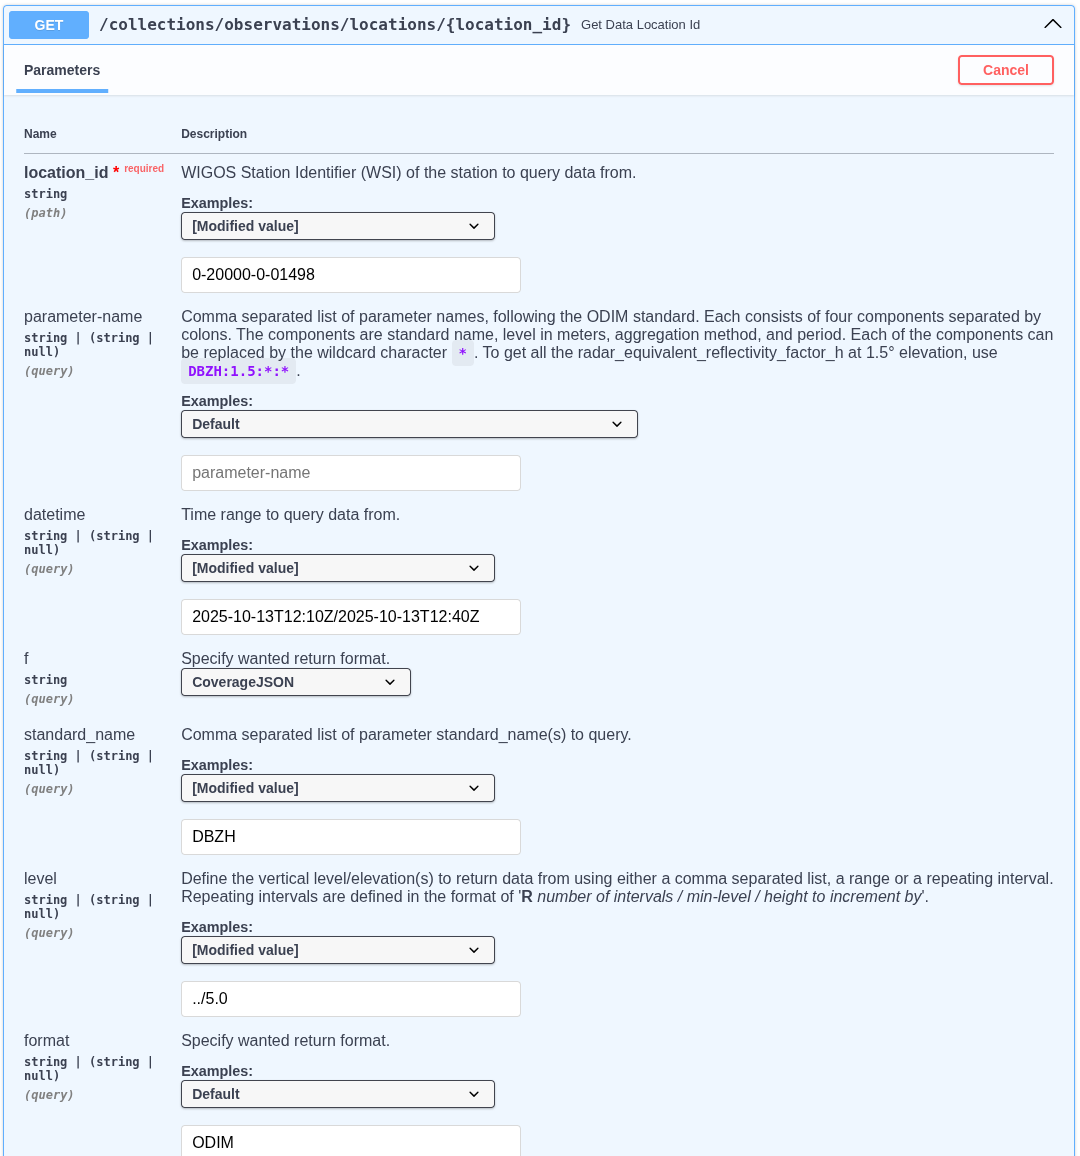
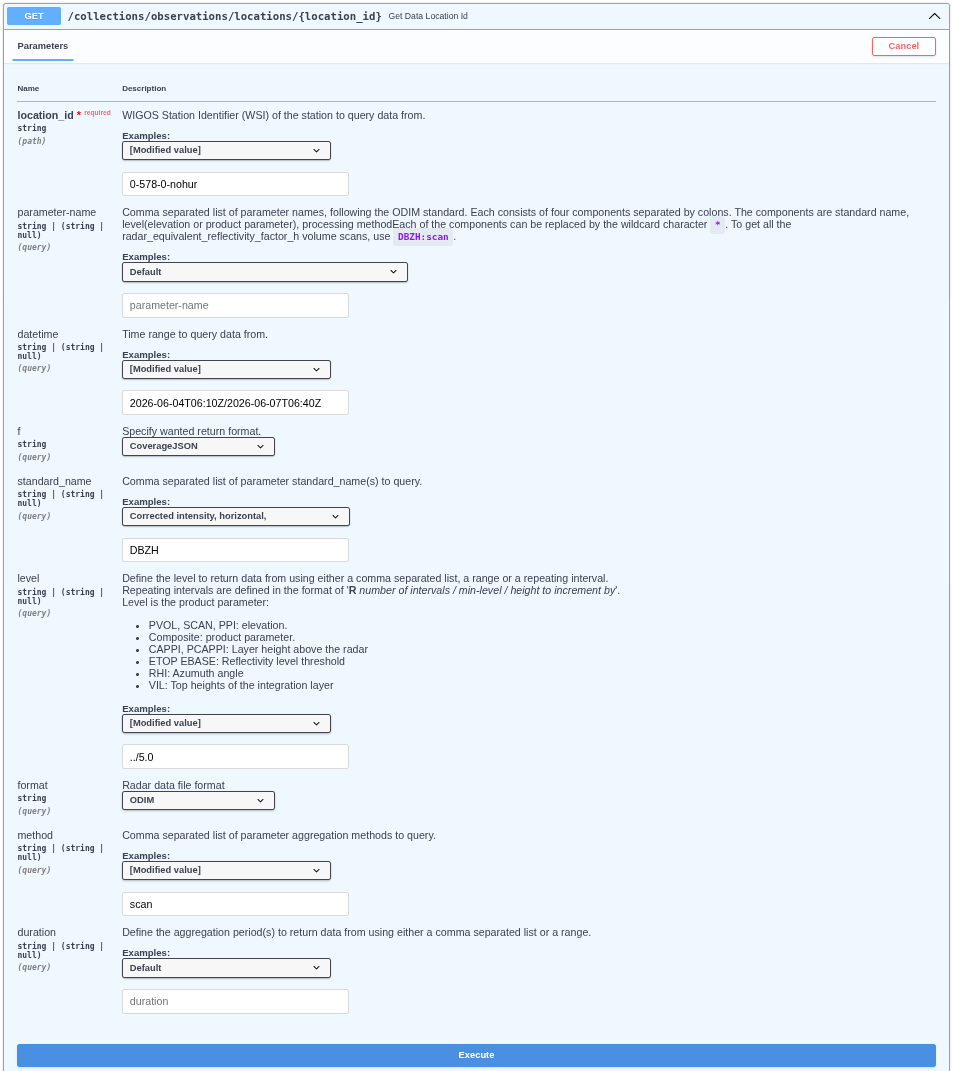
Update API examples

Changed region(s): [[0.0, 0.0, 1.0, 1.0], [0.0, 0.4006, 0.0913, 0.493], [0.8825, 0.1849, 0.9433, 0.2157]]

diff --git a/docs/2-ORD-API-discovering-and-accessing-data.md b/docs/2-ORD-API-discovering-and-accessing-data.md
@@ -47,17 +47,17 @@ The **Open Radar Data API** is ideal for retrieving and integrating radar data i
 
 **1. EUMETNET OPERA single-site volume radar data:**
 
-   - Retrieve single site (Hurum, Norway) radar intensity data (DBZH) in ODIM format for specific time range (2025-10-13T12:10Z/2025-10-13T12:40Z) and elevations lower than 5&deg;:
+   - Retrieve single site (Hurum, Norway) radar intensity data (DBZH) in ODIM format for specific time range (2026-06-04T06:10Z/2026-06-04T06:40Z) and elevations lower than 5&deg;:
 
      i. Open [ORD API Swagger UI](https://api.meteogate.eu/eu-eumetnet-weather-radar/docs) and select: collections/observations/localtions/{location_id}
 
      ii. Click to "Try it out" button and set the query parameters:
 
-     iii. ``location_id``: 0-20000-0-01498
+     iii. ``location_id``: 0-578-0-nohur
         
      iv. ``parameter-name``: leave blank, set it below separately(standard_name:level:*:*)
         
-     v. ``datetime``: 2025-10-13T12:10Z/2025-10-13T12:40Z
+     v. ``datetime``: 2026-06-04T06:10Z/2026-06-07T06:40Z
         
      vi. ``standard_name``: DBZH
         
@@ -71,16 +71,20 @@ The **Open Radar Data API** is ideal for retrieving and integrating radar data i
 
        ![ORD Query Parameters Location](Images/ORD_API_location.png)
 
+      Note: Location id is `0-578-0-nohur`, where `578` is the ISO country code of Norway, and `nohur` is a unique ODIM code. You can find the full list of the codes [here](https://github.com/EUMETNET/openradardata-validator/blob/main/src/openradardata_validator/stations/OPERA_RADARS.csv).
+
      xi. Click the Execution button and the response available. See the ``curl`` example the request url and the response below
 
        ![ORD Response Location](Images/ORD_API_location_response.png)
 
+        Note: Check the `x-ratelimit-remaining` value for remaining(anonymous) queries! Get API keys at [Meteogate Developer Portal](https://devportal.meteogate.eu/)
+
      xii. Direct meteogate query link:
      
        ```
-       https://api.meteogate.eu/eu-eumetnet-weather-radar/collections/observations/locations/0-20000-0-01498?datetime=2025-10-13T12%3A10Z%2F2025-10-13T12%3A40Z&f=CoverageJSON&level=..%2F5.0&format=ODIM
+       https://api.meteogate.eu/eu-eumetnet-weather-radar/collections/observations/locations/0-578-0-nohur?datetime=2026-06-04T06%3A10Z%2F2026-06-04T06%3A40Z&f=CoverageJSON&level=..%2F5.0&format=ODIM
        ```
-       Note: Update the datetime field within this URL.
+       Note: Update the datetime field within this URL. 
      
      xiii. ODIM data are downloadable from these links:
         
@@ -90,21 +94,21 @@ The **Open Radar Data API** is ideal for retrieving and integrating radar data i
 
             Check the file existing in the S3 bucket:
             ```bash
-            aws s3 ls s3://openradar-24h/2025/10/13/NO/nohur/PVOL/   --endpoint-url https://s3.waw3-1.cloudferro.com/  --no-sign-request
+            aws s3 ls s3://openradar-24h/2026/06/04/NO/nohur/PVOL/   --endpoint-url https://s3.waw3-1.cloudferro.com/  --no-sign-request
             ```
             Check the daily OPERA data in the S3 bucket:
             ```bash
-            aws s3 ls s3://openradar-24h/2025/10/16/OPERA/COMP/   --endpoint-url https://s3.waw3-1.cloudferro.com/  --no-sign-request
+            aws s3 ls s3://openradar-24h/2026/04/06/OPERA/COMP/   --endpoint-url https://s3.waw3-1.cloudferro.com/  --no-sign-request
             ```
             Copy file to new_local_filename.h5:
             ```bash
-            aws s3  cp s3://openradar-24h/2025/10/16/OPERA/COMP/OPERA@20251016T0220@0@DBZH.h5 ./new_local_filename.h5  --endpoint-url https://s3.waw3-1.cloudferro.com/  --no-sign-request
+            aws s3  cp s3://openradar-24h/2026/06/04/OPERA/COMP/OPERA@20260604T0220@0@DBZH.h5 ./new_local_filename.h5  --endpoint-url https://s3.waw3-1.cloudferro.com/  --no-sign-request
             ```
 
      xv. radar_meta(ODIM attributes) section is below the links:
          
             ```json
-                "metocean:wigosId": "0-20000-0-01498",
+                "metocean:wigosId": "0-578-0-honur",
                 "metocean:platform_name": "[nohur]",
                 "metocean:format": "ODIM",
                 "metocean:radar_meta": {
@@ -130,7 +134,7 @@ The **Open Radar Data API** is ideal for retrieving and integrating radar data i
 
    - Retrieve all Dutch data.
 
-     i. ``location_id``: 0-20010-\*-nl\*
+     i. ``location_id``: 0-528-\*-nl\*
 
 <br>
 
@@ -142,7 +146,7 @@ The **Open Radar Data API** is ideal for retrieving and integrating radar data i
 
    - OPERA products:
      
-     i. ``location_id``: 0-\*-\*-OPERA
+     i. ``location_id``: 0-20010-0-OPERA
 
    - Query ODIM format:
      
@@ -156,7 +160,7 @@ The **Open Radar Data API** is ideal for retrieving and integrating radar data i
 
 **3. Select observation items:**
 
-   - Retrieve German sites from boundary box area (-5.5,18.0,72.0,82.1) where raw radar reflectivity data (TH) is available in ODIM format for specific time range (2025-10-13T12:10Z/2025-10-13T12:40Z):
+   - Retrieve German sites from boundary box area (-5.5,18.0,72.0,82.1) where raw radar reflectivity data (TH) is available in ODIM format for specific time range (2026-06-04T02:10Z/2026-06-04T02:40Z):
 
        i. Open [ORD API](https://api.meteogate.eu/eu-eumetnet-weather-radar/docs) and select: collections/observations/items
 
@@ -164,7 +168,7 @@ The **Open Radar Data API** is ideal for retrieving and integrating radar data i
 
        iii. ``bbox``: -5.5,18.0,72.0,82.1
 
-       iv. ``datetime``: 2025-10-13T12:10Z/2025-10-13T12:40Z
+       iv. ``datetime``: 2026-06-04T02:10Z/2026-06-04T02:40Z
 
        v. ``id``: leave blank
 
@@ -186,94 +190,95 @@ The **Open Radar Data API** is ideal for retrieving and integrating radar data i
 
          Result 
           ```json
-            {
+          {
             "type": "FeatureCollection",
             "features": [
-                {
+              {
                 "type": "Feature",
                 "geometry": {
-                    "type": "scan",
-                    "coordinates": [
-                    9.694533,
-                    52.460083
-                    ]
-                },
-                "properties": {
-                    "summary": "Radar data from OPERA network.",
-                    "license": "https://creativecommons.org/licenses/by/4.0/",
-                    "naming_authority": "de.dwd",
-                    "platform": "0-20000-0-10339",
-                    "platform_name": "[dehnr]",
-                    "standard_name": "TH",
-                    "unit": "%",
-                    "level": 0.5,
-                    "period": "PT30S",
-                    "parameter_name": "TH:0.5:point:PT30S",
-                    "timeseries_id": "07ea52bf21af5399cbc165982559d2ea",
-                    "radar_meta": {
-                    "object": "SCAN",
-                    "elangle": 0.4998779296875,
-                    "nbins": 720,
-                    "rstart": 0,
-                    "rscale": 250,
-                    "nrays": 360,
-                    "a1gate": 100,
-                    "product": "SCAN",
-                    "frequency": 5641692508.103789,
-                    "beamwH": 0.9,
-                    "beamwV": 0.9
-                    },
-                    "format": "ODIM",
-                    "platform_vocabulary": "https://oscar.wmo.int/surface/rest/api/search/station?wigosId=0-20000-0-10339",
-                    "method": "scan",
-                    "data": "https://api.meteogate.eu/eu-eumetnet-weather-radar/collectionscollections/observations/locations/0-20000-0-10339?=parameter-name=TH:0.5:point:PT30S"
-                },
-                "id": "07ea52bf21af5399cbc165982559d2ea"
-                },
-                {
-                "type": "Feature",
-                "geometry": {
-                    "type": "Point",
-                    "coordinates": [
+                  "type": "Point",
+                  "coordinates": [
                     6.967111,
-                    51.405649
-                    ]
+                    51.405649,
+                    2.5
+                  ]
                 },
                 "properties": {
-                    "summary": "Radar data from OPERA network.",
-                    "license": "https://creativecommons.org/licenses/by/4.0/",
-                    "naming_authority": "de.dwd",
-                    "platform": "0-20000-0-10410",
-                    "platform_name": "[deess]",
-                    "standard_name": "TH",
-                    "unit": "%",
-                    "level": 0.5,
-                    "period": "PT30S",
-                    "parameter_name": "TH:0.5:point:PT30S",
-                    "timeseries_id": "126aad398d3e52c3151a5cc5f7a0ffb2",
-                    "radar_meta": {
+                  "summary": "Radar data from OPERA network.",
+                  "license": "https://creativecommons.org/licenses/by/4.0/",
+                  "naming_authority": "de.dwd",
+                  "platform": "0-276-0-deess",
+                  "platform_name": "[deess]",
+                  "standard_name": "TH",
+                  "unit": "%",
+                  "level": 2.5,
+                  "period": "PT1M",
+                  "parameter_name": "TH:scan",
+                  "timeseries_id": "008d7bb60bda9936afc1361e8c2003ae",
+                  "radar_meta": {
                     "object": "SCAN",
-                    "elangle": 0.4998779296875,
+                    "elangle": 2.4993896484375,
                     "nbins": 720,
                     "rstart": 0,
                     "rscale": 250,
                     "nrays": 360,
-                    "a1gate": 100,
+                    "a1gate": 80,
                     "product": "SCAN",
                     "frequency": 5606682004.950664,
                     "beamwH": 0.9,
                     "beamwV": 0.9
-                    },
-                    "format": "ODIM",
-                    "platform_vocabulary": "https://oscar.wmo.int/surface/rest/api/search/station?wigosId=0-20000-0-10410",
-                    "method": "point",
-                    "data": "https://api.meteogate.eu/eu-eumetnet-weather-radar/collectionscollections/observations/locations/0-20000-0-10410?=parameter-name=TH:0.5:point:PT30S"
+                  },
+                  "format": "ODIM",
+                  "platform_vocabulary": "https://oscar.wmo.int/surface/rest/api/search/station?wigosId=0-276-0-deess",
+                  "method": "scan",
+                  "data": "https://api.meteogate.eu/eu-eumetnet-weather-radar/collections/observations/locations/0-276-0-deess?parameter-name=TH:scan&level=2.5&format=ODIM"
                 },
-                "id": "126aad398d3e52c3151a5cc5f7a0ffb2"
-                },...
-            ]...
-            }
+                "id": "008d7bb60bda9936afc1361e8c2003ae"
+              },
+              {
+                "type": "Feature",
+                "geometry": {
+                  "type": "Point",
+                  "coordinates": [
+                    8.712933,
+                    49.984745,
+                    5.5
+                  ]
+                },
+                "properties": {
+                  "summary": "Radar data from OPERA network.",
+                  "license": "https://creativecommons.org/licenses/by/4.0/",
+                  "naming_authority": "de.dwd",
+                  "platform": "0-276-0-deoft",
+                  "platform_name": "[deoft]",
+                  "standard_name": "TH",
+                  "unit": "%",
+                  "level": 5.5,
+                  "period": "PT1M",
+                  "parameter_name": "TH:scan",
+                  "timeseries_id": "038fe46ffe011e26536f9e45c88a91b2",
+                  "radar_meta": {
+                    "object": "SCAN",
+                    "elangle": 5.4986572265625,
+                    "nbins": 720,
+                    "rstart": 0,
+                    "rscale": 250,
+                    "nrays": 360,
+                    "a1gate": 54,
+                    "product": "SCAN",
+                    "frequency": 5641692508.103789,
+                    "beamwH": 0.9,
+                    "beamwV": 0.9
+                  },
+                  "format": "ODIM",
+                  "platform_vocabulary": "https://oscar.wmo.int/surface/rest/api/search/station?wigosId=0-276-0-deoft",
+                  "method": "scan",
+                  "data": "https://api.meteogate.eu/eu-eumetnet-weather-radar/collections/observations/locations/0-276-0-deoft?parameter-name=TH:scan&level=5.5&format=ODIM"
+                },
+                "id": "038fe46ffe011e26536f9e45c88a91b2"
+              },...
+                      ]...
+                      }
+      ```
 
-        ```
-        
 
